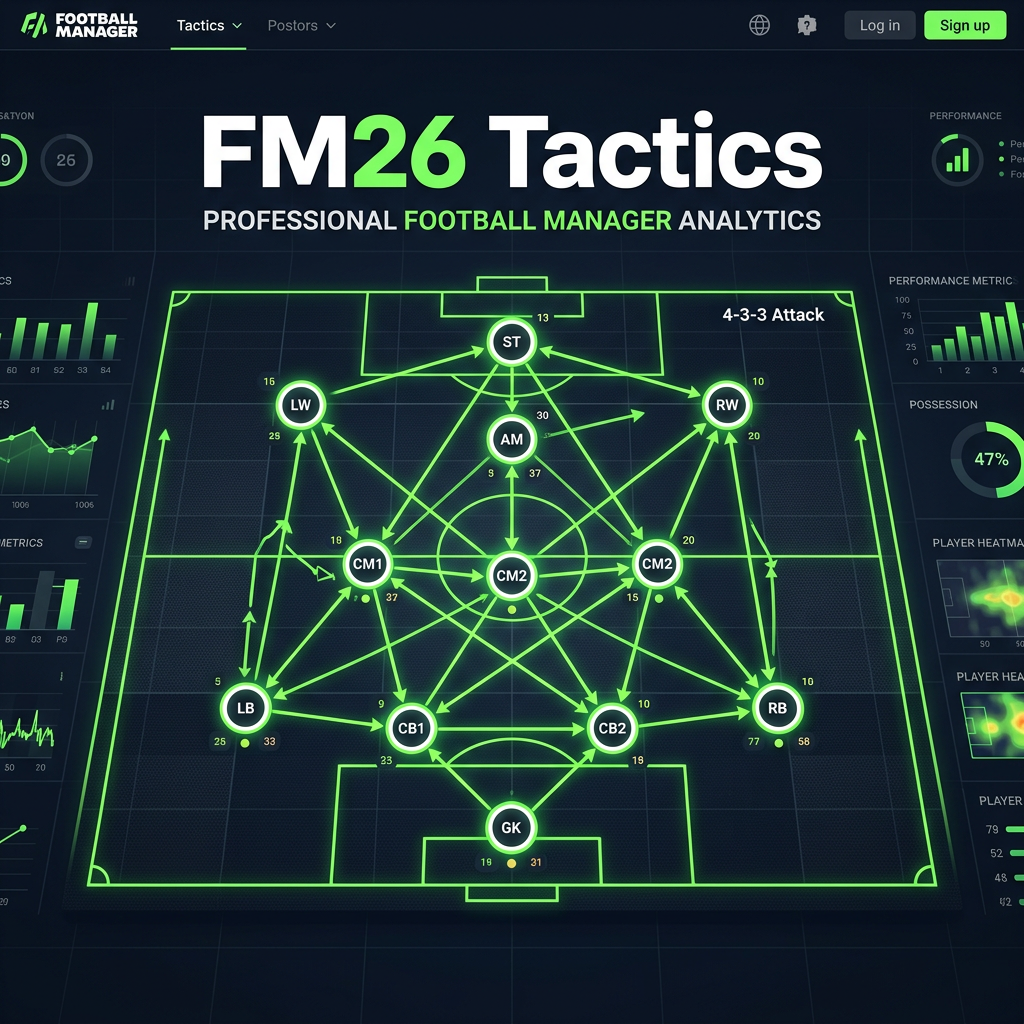
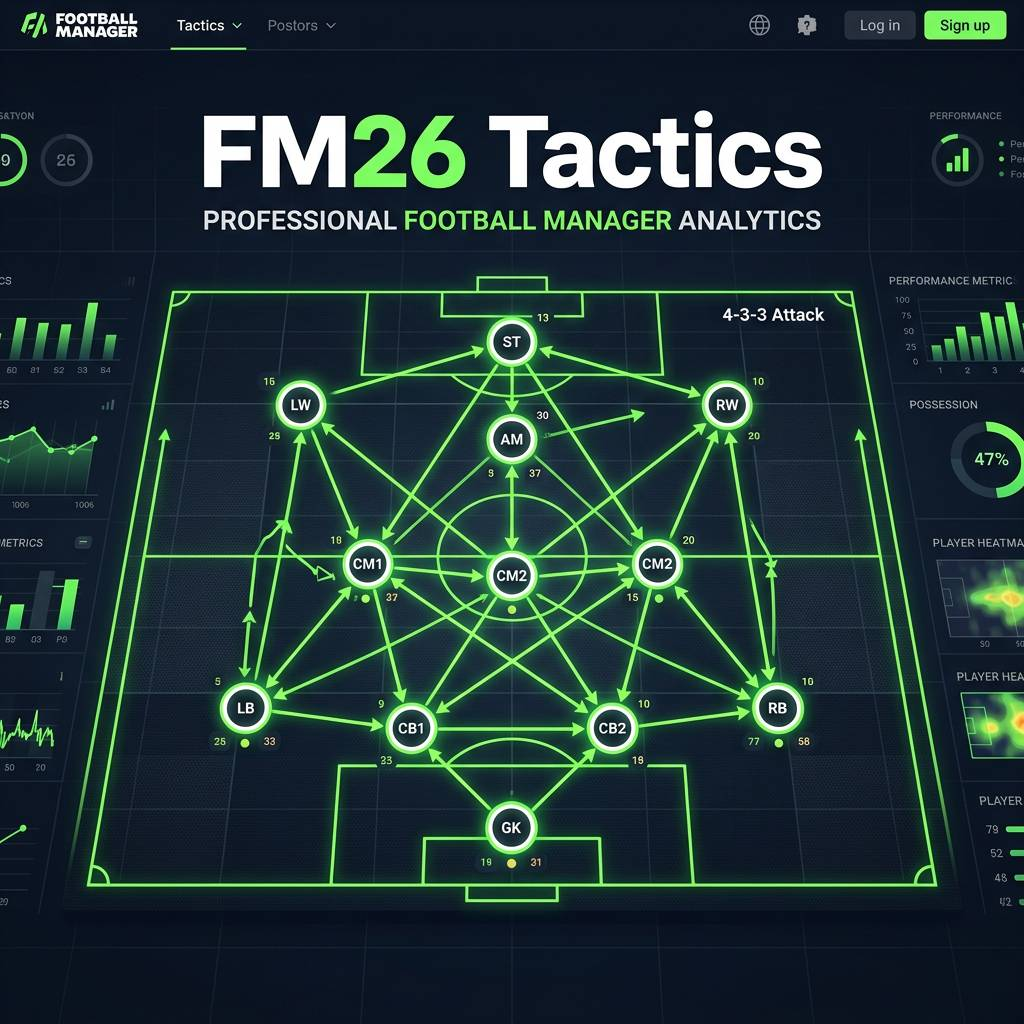
seo: comprehensive technical SEO fixes + structured data enhancement
- Fix Twitter cards to use absolute URLs (metadata.ts, blog pages)
- Add Article JSON-LD structured data to blog detail pages
- Add robots/OG/Twitter metadata to blog list & detail pages
- Add SEO metadata to 404 page (noindex, follow)
- Remove duplicate WebSite JSON-LD from homepage
- Compress OG image: 1.46MB → 121KB (93% reduction)
- Update dateModified in layout + add blog to llms.txt
- Clean redundant canonical link from layout.tsx

diff --git a/src/app/blog/[slug]/page.tsx b/src/app/blog/[slug]/page.tsx
@@ -1,6 +1,7 @@
 import type { Metadata } from "next";
 import { allBlogs } from "contentlayer/generated";
 import { notFound } from "next/navigation";
+import Script from "next/script";
 import { BlogDetail } from "@/components/blog/blog-detail";
 
 export async function generateStaticParams() {
@@ -17,21 +18,48 @@ export async function generateMetadata({
   const post = allBlogs.find((p) => p.slug === params.slug);
   if (!post) return { title: "Post Not Found" };
 
+  const url = `https://fm26tactics.com/blog/${post.slug}`;
+
   return {
     title: post.title,
     description: post.description,
-    alternates: {
-      canonical: `https://fm26tactics.com/blog/${post.slug}`,
-    },
+    alternates: { canonical: url },
     openGraph: {
       title: post.title,
       description: post.description,
-      url: `https://fm26tactics.com/blog/${post.slug}`,
+      url,
       type: "article",
+      siteName: "FM26 Tactics",
+      locale: "en_US",
       publishedTime: post.publishedAt,
       authors: post.author ? [post.author] : undefined,
+      images: [
+        {
+          url: "/images/og/default.jpg",
+          width: 1200,
+          height: 630,
+          alt: post.title,
+        },
+      ],
+    },
+    twitter: {
+      card: "summary_large_image",
+      title: post.title,
+      description: post.description,
+      images: [`https://fm26tactics.com/images/og/default.jpg`],
     },
     keywords: post.tags?.join(", "),
+    robots: {
+      index: true,
+      follow: true,
+      googleBot: {
+        index: true,
+        follow: true,
+        "max-image-preview": "large",
+        "max-snippet": -1,
+        "max-video-preview": -1,
+      },
+    },
   };
 }
 
@@ -43,8 +71,37 @@ export default function BlogPostPage({
   const post = allBlogs.find((p) => p.slug === params.slug);
   if (!post) notFound();
 
+  const articleJsonLd = {
+    "@context": "https://schema.org",
+    "@type": "Article",
+    headline: post.title,
+    description: post.description,
+    author: post.author
+      ? { "@type": "Person", name: post.author }
+      : undefined,
+    datePublished: post.publishedAt,
+    dateModified: post.publishedAt,
+    mainEntityOfPage: {
+      "@type": "WebPage",
+      "@id": `https://fm26tactics.com/blog/${post.slug}`,
+    },
+    publisher: {
+      "@type": "Organization",
+      name: "FM26 Tactics",
+      url: "https://fm26tactics.com",
+    },
+    image: "https://fm26tactics.com/images/og/default.jpg",
+    articleSection: post.category,
+    keywords: post.tags?.join(", "),
+  };
+
   return (
     <main className="min-h-screen bg-background-primary">
+      <Script
+        id="blog-article-jsonld"
+        type="application/ld+json"
+        dangerouslySetInnerHTML={{ __html: JSON.stringify(articleJsonLd) }}
+      />
       <BlogDetail post={post} />
     </main>
   );

diff --git a/src/app/blog/page.tsx b/src/app/blog/page.tsx
@@ -8,6 +8,10 @@ export const metadata: Metadata = {
   title: "FM26 Tactics Blog — In-Depth Guides, Meta Analysis & Tips",
   description:
     "Expert FM26 tactics blog covering gegenpress setups, player roles, set piece routines, meta analysis, and beginner guides. Updated weekly with community-tested strategies.",
+  keywords: [
+    "fm26 blog", "football manager 2026 guides", "fm26 tactics blog",
+    "fm26 meta", "gegenpress guide", "player roles explained",
+  ],
   alternates: {
     canonical: "https://fm26tactics.com/blog",
   },
@@ -17,6 +21,34 @@ export const metadata: Metadata = {
       "Expert FM26 tactics blog covering gegenpress setups, player roles, set piece routines, meta analysis, and beginner guides.",
     url: "https://fm26tactics.com/blog",
     type: "website",
+    siteName: "FM26 Tactics",
+    locale: "en_US",
+    images: [
+      {
+        url: "/images/og/default.jpg",
+        width: 1200,
+        height: 630,
+        alt: "FM26 Tactics Blog — Expert Guides & Meta Analysis",
+      },
+    ],
+  },
+  twitter: {
+    card: "summary_large_image",
+    title: "FM26 Tactics Blog — In-Depth Guides & Meta Analysis",
+    description:
+      "Expert FM26 tactics blog covering gegenpress setups, player roles, set piece routines, meta analysis, and beginner guides.",
+    images: ["https://fm26tactics.com/images/og/default.jpg"],
+  },
+  robots: {
+    index: true,
+    follow: true,
+    googleBot: {
+      index: true,
+      follow: true,
+      "max-image-preview": "large",
+      "max-snippet": -1,
+      "max-video-preview": -1,
+    },
   },
 };
 

diff --git a/src/app/page.tsx b/src/app/page.tsx
@@ -3,7 +3,6 @@ import dynamic from "next/dynamic";
 import { HeroSection } from "@/components/home/hero";
 import { QuickPicks } from "@/components/home/quick-picks";
 import { JsonLd } from "@/components/shared/json-ld";
-import { siteConfig } from "@/lib/metadata";
 
 // ssr: false — eliminates preload links for chunks, preventing bandwidth competition
 // on mobile. Content loads instantly after hydration via local JS chunks.
@@ -75,30 +74,6 @@ export const metadata: Metadata = {
 export default function HomePage() {
   return (
     <>
-      <JsonLd
-        data={{
-          "@context": "https://schema.org",
-          "@type": "WebSite",
-          name: siteConfig.name,
-          url: siteConfig.url,
-          description: siteConfig.description,
-          author: {
-            "@type": "Person",
-            name: "FM26 Tactics",
-            url: siteConfig.url,
-          },
-          sameAs: [siteConfig.links.github],
-          dateModified: "2026-08-03",
-          potentialAction: {
-            "@type": "SearchAction",
-            target: {
-              "@type": "EntryPoint",
-              urlTemplate: `${siteConfig.url}/search?q={search_term_string}`,
-            },
-            "query-input": "required name=search_term_string",
-          },
-        }}
-      />
       <JsonLd
         data={{
           "@context": "https://schema.org",

diff --git a/src/app/layout.tsx b/src/app/layout.tsx
@@ -114,7 +114,7 @@ export default function RootLayout({
               url: siteConfig.url,
             },
             sameAs: [siteConfig.links.github],
-            dateModified: "2026-08-03",
+            dateModified: "2026-08-08",
             potentialAction: {
               "@type": "SearchAction",
               target: {
@@ -125,7 +125,7 @@ export default function RootLayout({
             },
           }}
         />
-        <link rel="canonical" href="https://fm26tactics.com" />
+        {/* canonical is auto-injected by Next.js metadata API */}
       </head>
       <body className={`${inter.variable} ${jetbrainsMono.variable} font-sans bg-background-primary text-text-primary min-h-screen`}>
         <GoogleAnalytics />

diff --git a/src/app/not-found.tsx b/src/app/not-found.tsx
@@ -1,4 +1,15 @@
+import type { Metadata } from "next";
 import Link from "next/link";
+
+export const metadata: Metadata = {
+  title: "Page Not Found — FM26 Tactics",
+  description:
+    "The page you're looking for doesn't exist. Browse our FM26 tactics library, guides, and blog.",
+  robots: {
+    index: false,
+    follow: true,
+  },
+};
 
 export default function NotFound() {
   return (

diff --git a/src/lib/metadata.ts b/src/lib/metadata.ts
@@ -65,7 +65,7 @@ export function generateSEO({
       card: "summary_large_image",
       title: `${title}`,
       description,
-      images: [image],
+      images: [image.startsWith("http") ? image : `https://fm26tactics.com${image}`],
     },
   };
 }
